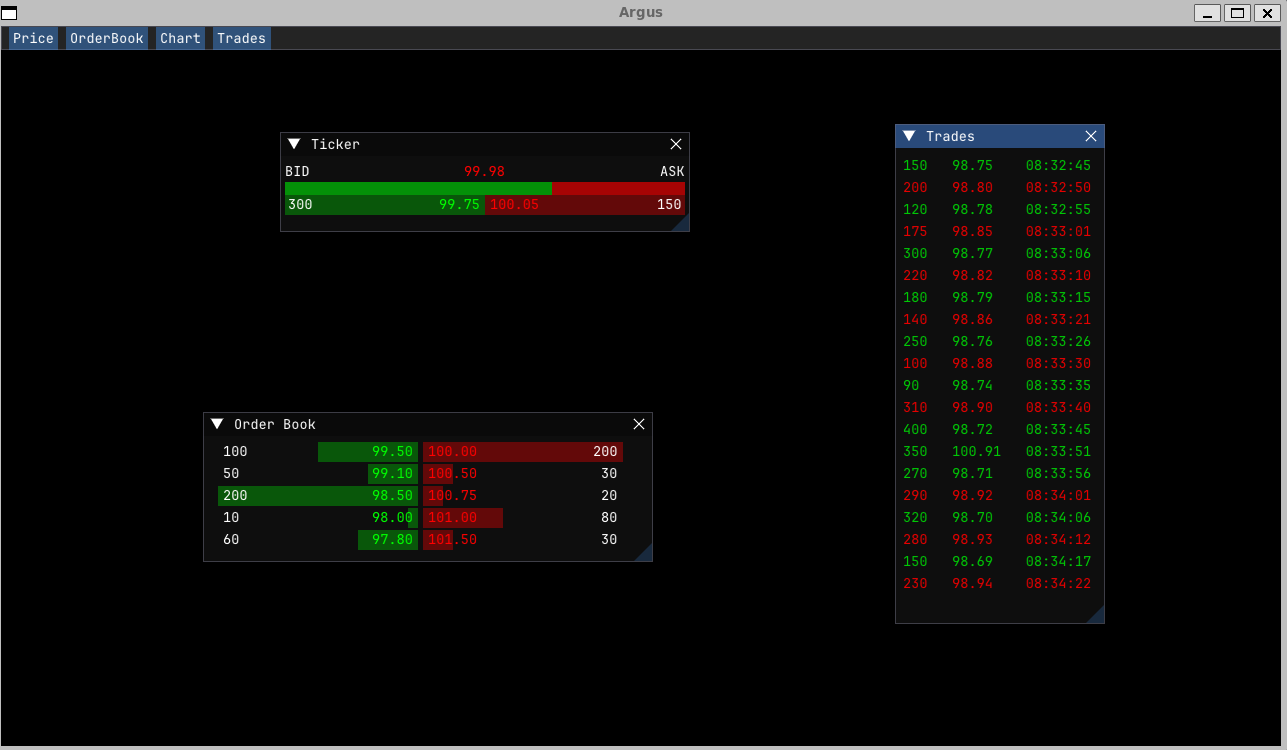
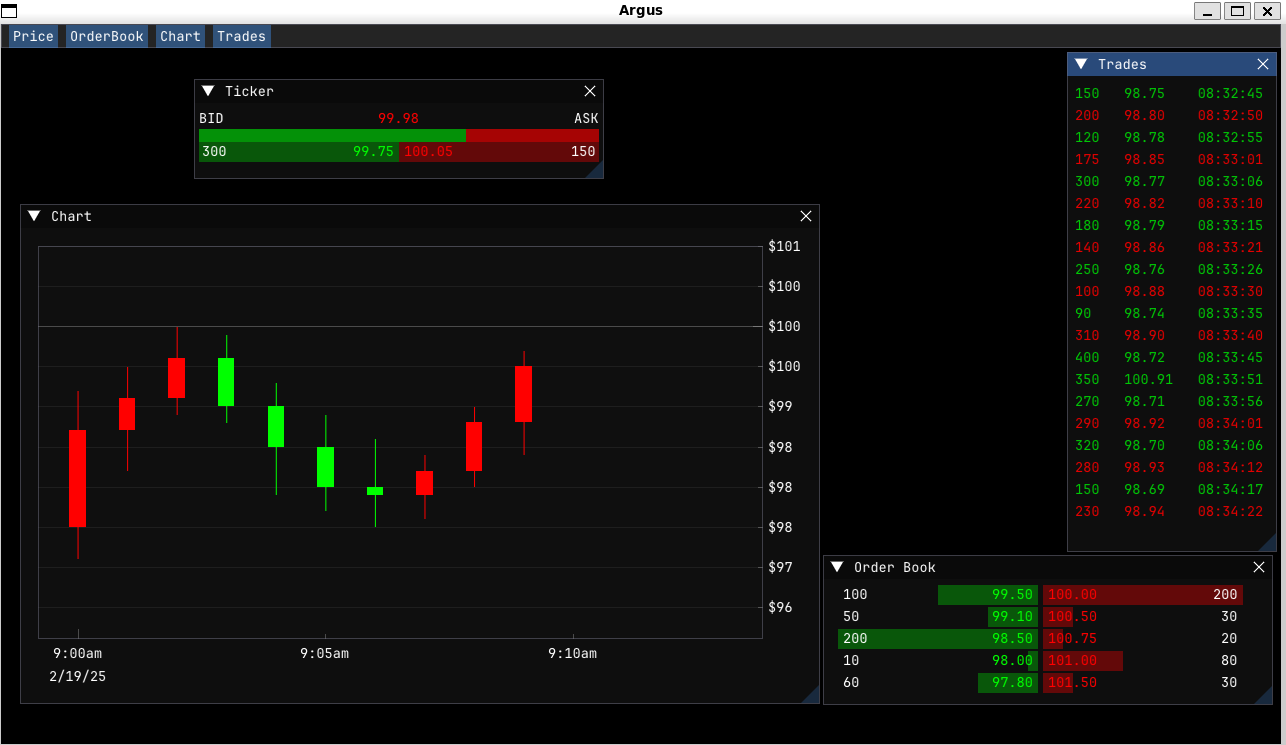
fixed the bug with the chart which wasnt really a bug. my dummy data was just wrong... added new picture as well

diff --git a/GUI/App/src/Chart.cpp b/GUI/App/src/Chart.cpp
@@ -5,43 +5,34 @@ Chart::Chart() {
   
   candles = {
     {97.5, 99.2, 97.1, 98.7, 1200.5, 1, "2025-02-19T09:00:00"},
-    {98.7, 99.5, 98.2, 99.1, 1500.8, 1, "2025-02-19T09:00:01"},
-    {99.1, 100.0, 98.9, 99.6, 1800.3, 1, "2025-02-19T09:00:02"},
-    {99.6, 99.9, 98.8, 99.0, 1600.7, 1, "2025-02-19T09:00:03"},
-    {99.0, 99.3, 97.9, 98.5, 1400.2, 1, "2025-02-19T09:00:04"},
-    {98.5, 98.9, 97.7, 98.0, 1300.6, 1, "2025-02-19T09:00:05"},
-    {98.0, 98.6, 97.5, 97.9, 1100.9, 1, "2025-02-19T09:00:06"},
-    {97.9, 98.4, 97.6, 98.2, 1050.4, 1, "2025-02-19T09:00:07"},
-    {98.2, 99.0, 98.0, 98.8, 1700.1, 1, "2025-02-19T09:00:08"},
-    {98.8, 99.7, 98.4, 99.5, 1900.5, 1, "2025-02-19T09:00:09"}
+    {98.7, 99.5, 98.2, 99.1, 1500.8, 1, "2025-02-19T09:01:00"}, 
+    {99.1, 100.0, 98.9, 99.6, 1800.3, 1, "2025-02-19T09:02:00"},
+    {99.6, 99.9, 98.8, 99.0, 1600.7, 1, "2025-02-19T09:03:00"},
+    {99.0, 99.3, 97.9, 98.5, 1400.2, 1, "2025-02-19T09:04:00"},
+    {98.5, 98.9, 97.7, 98.0, 1300.6, 1, "2025-02-19T09:05:00"},
+    {98.0, 98.6, 97.5, 97.9, 1100.9, 1, "2025-02-19T09:06:00"},
+    {97.9, 98.4, 97.6, 98.2, 1050.4, 1, "2025-02-19T09:07:00"},
+    {98.2, 99.0, 98.0, 98.8, 1700.1, 1, "2025-02-19T09:08.00"},
+    {98.8, 99.7, 98.4, 99.5, 1900.5, 1, "2025-02-19T09:09:00"}
   };
 
 }
 
 Chart::~Chart() {}
 
-int xAxisFormatter(double value, char* buffer, int size, void*) {
-  std::time_t t = static_cast<std::time_t>(value);
-  std::tm* time_info = gmtime(&t);
-  std::strftime(buffer, size, "%H:%M", time_info);
-  return 0;
-}
-
 void Chart::draw() {
   ImGui::SetNextWindowSize(ImVec2(800, 500), ImGuiCond_Always);
   ImGui::Begin(window_name.c_str(), &show);
-  const double half_width = .25;
+  const double half_width = 10;
 
-  if(ImPlot::BeginPlot("Graph", ImVec2(-1,-1), ImPlotFlags_NoLegend)) {
+  if(ImPlot::BeginPlot("##Graph", ImVec2(-1,-1), ImPlotFlags_NoLegend | ImPlotFlags_NoFrame)) {
 
     ImDrawList* draw_list = ImPlot::GetPlotDrawList();
-    ImPlot::SetupAxes(0,0,0,ImPlotAxisFlags_AutoFit|ImPlotAxisFlags_RangeFit|ImPlotAxisFlags_Opposite);
+    ImPlot::SetupAxes(0,0,ImPlotAxisFlags_NoGridLines, ImPlotAxisFlags_AutoFit|ImPlotAxisFlags_RangeFit|ImPlotAxisFlags_Opposite);
     ImPlot::SetupAxisScale(ImAxis_X1, ImPlotScale_Time);
-    ImPlot::SetupAxisLimits(ImAxis_X1, Utils::UTCToUnix(candles[0].begin), Utils::UTCToUnix(candles.back().begin));
+    ImPlot::SetupAxisLimits(ImAxis_X1, Utils::UTCToUnix(candles[0].begin), Utils::UTCToUnix(candles.back().begin) + 5);
     ImPlot::SetupAxisFormat(ImAxis_Y1, "$%.0f");
 
-    ImPlot::SetupAxisFormat(ImAxis_X1, xAxisFormatter);
-    
     std::string name = "Stocks ##" + window_name;
 
     if (ImPlot::BeginItem(name.c_str())) {

diff --git a/GUI/App/src/App.cpp b/GUI/App/src/App.cpp
@@ -28,6 +28,7 @@ App::App() {
 
   io->ConfigFlags |= ImGuiConfigFlags_NavEnableKeyboard;
   io->ConfigFlags |= ImGuiConfigFlags_NavEnableGamepad;
+  io->ConfigWindowsMoveFromTitleBarOnly;
 
   io->Fonts->AddFontFromFileTTF("../fonts/JetBrainsMono-Regular.ttf", 18);
   ImGui::StyleColorsDark();
